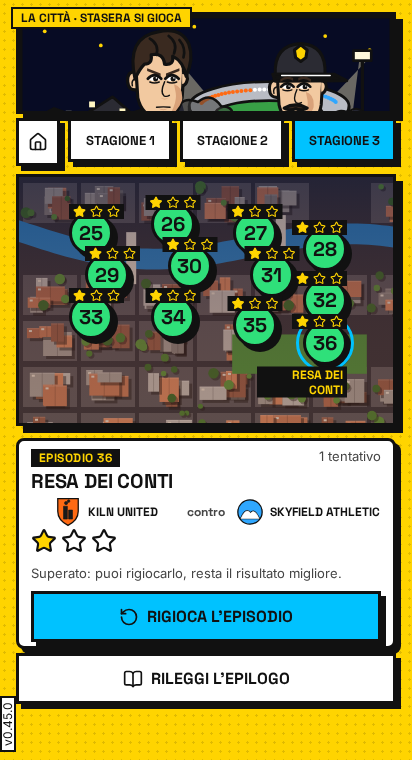
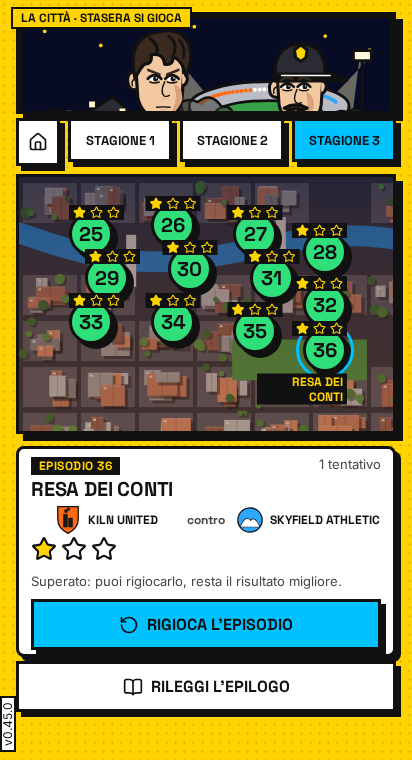
D-210: mappa della città di nuovo a 260 (a 252 dischi sovrapposti per 255 px² a 360×760, C17-12); spazio dal margine sotto la pagina con la striscia; 0 px a 360/375/412×760 e 360×640

Changed region(s): [[0.0291, 0.2421, 0.9903, 0.9684]]

diff --git a/src/resa/token.css b/src/resa/token.css
@@ -198,11 +198,9 @@
   --stemma-compatto: 32px; /* D-191: stemmi nella scheda compatta della città */
   --mappa-proporzione-passi: 4 / 3; /* sala e briefing a passi (S-10): mappa più bassa, niente scorrimento */
   --citta-proporzione: 4 / 5;
-  --citta-riserva: 508px;   /* D-210: con la striscia della home al posto della testata, a 760 la mappa scende a 252 */
-  --citta-riserva-prima: 500px;   /* PO-052: spazio per testata, pulsanti e scheda sotto la mappa della città (misurato: 486 px + margine) */
+  --citta-riserva: 500px;   /* PO-052: spazio per testata, pulsanti e scheda sotto la mappa della città (misurato: 486 px + margine) */
   --citta-larghezza-min: 208px;
-  --citta-altezza-min: 252px; /* D-210: 260 → 252 (sopra i 244 di C17-12) per la striscia della home */
-  --citta-altezza-min-prima: 260px; /* C17-12: altezza minima della mappa della città (quella di oggi a 760 px); D-187 l'aveva portata a 244: dischi sovrapposti per 587 px² a 360×760 (CI), tornata a 260 */
+  --citta-altezza-min: 260px; /* C17-12: altezza minima della mappa della città (quella di oggi a 760 px); D-187 l'aveva portata a 244: dischi sovrapposti per 587 px² a 360×760 (CI), tornata a 260 */
   --citta-altezza-max: 460px; /* C17-12: oltre, la mappa diventerebbe più alta che larga */
   --citta-nome-da: 400px; /* D-123: sotto questa larghezza della finestra il nome dell'episodio scelto non sta sulla mappa */
   --logo-icona: 72px;      /* PO-065 */

diff --git a/src/resa/stile-home.css b/src/resa/stile-home.css
@@ -27,4 +27,5 @@ main:not(.rosso-c187c01) .home-premessa ~ .avviso-finzione { margin-bottom: 0; }
 .guida-testata { margin: 0 0 var(--spazio-3); }
 .guida-testata > .vignetta { height: var(--home-vignetta-max); }
 .solo-lettore { position: absolute; width: var(--spazio-px); height: var(--spazio-px); overflow: hidden; clip-path: inset(50%); white-space: nowrap; }
-main[data-schermata="citta"]:not(:has([data-citta-striscia])) { --citta-riserva: var(--citta-riserva-prima); --citta-altezza-min: var(--citta-altezza-min-prima); } /* testata di prima: mappa di prima */
+/* D-210: con la striscia meno margine sotto la pagina (la mappa resta a 260: a 252 i dischi si coprivano per 255 px² a 360×760, C17-12) */
+#app:has(main[data-schermata="citta"] [data-citta-striscia]) { padding-bottom: var(--spazio-3); }

diff --git a/coordination/handoffs/sviluppatrice/d187/README.md b/coordination/handoffs/sviluppatrice/d187/README.md
@@ -299,25 +299,28 @@ Foto: `c45/d206/prima` (rosso C206I01) e `c45/d206/dopo`, e01 imp_ambulanza, e17
 - `Citta.tsx`: in testa la vignetta della home (96 px, `fissa`) con «La città · stasera si gioca» al posto della testata
   («S1 · Stagione 1 · mappa della città / Valmora»); il titolo resta per il lettore di schermo (`h1.solo-lettore`
   «Valmora · stagione N · mappa della città»). Rosso `C210C01`: la testata di prima. Sotto `--vignetta-finestra-min` (700 px,
-  la stessa soglia delle vignette di sala e verbale) resta la testata di prima, perché a 360×640 la striscia faceva scorrere
-  la città con pochi episodi di 21 px (scelta tecnica, dichiarata).
+  la stessa soglia delle vignette di sala e verbale) resta la testata di prima: a 360×640 la striscia faceva scorrere la città
+  con 0 episodi di 21 px (scelta tecnica, dichiarata).
 - `Guida.tsx`: al primo passo la vignetta della home con «La città e il gioco» al posto della vignetta del passo. Rosso `C210G01`.
-- Token: `--citta-riserva` 500 → 508 e `--citta-altezza-min` 260 → 252 (sopra i 244 di C17-12) con la striscia; con la testata
-  di prima tornano 500/260. Sotto la striscia `--spazio-1`; con la striscia «Rileggi l'epilogo» e la scheda sopra a `--spazio-1`.
+- La mappa della città resta a 260 px. Correzione dichiarata: avevo proposto 252 px; in CI (run 39486684643, «360 foto») a 252
+  i dischi degli episodi si coprivano per 255 px² a 360×760 (C17-12). Lo spazio viene invece da: sotto la striscia
+  `--spazio-1`; con la striscia «Rileggi l'epilogo» e la scheda sopra a `--spazio-1`; margine sotto la pagina `--spazio-3`
+  (era `--spazio-6`, come per la risposta in D-201).
+- Altra correzione dichiarata: avevo stimato 0 px a 360 con 96 px di striscia e mappa a 252; la misura dava 11 px (e 4 con 0
+  episodi, per la vignetta che si allungava: ora `fissa`).
 
-FATTO MISURATO, Chrome 156, scorrimento px. Correzione dichiarata: avevo stimato 0 a 360 con la mappa a 252, la misura dava 11
-(e 4 con 0 episodi, per la vignetta che si allungava): con `fissa` e gli spazi sopra, 0.
+FATTO MISURATO, Chrome 156, scorrimento px (`tools/sonda-altezze.mjs` e sonda della città con 0 episodi):
 
-| | 360×760 | 375×760 | 412×760 | 360×640 | 375×667 |
-|---|---|---|---|---|---|
-| città, 0 episodi | 0 | 0 | 0 | 0 (testata) | 0 (testata) |
-| città, 36 episodi | 0 | 0 | 0 | 99 (testata, come prima) | 53 (testata, come prima) |
-| guida, passo 1 | 0 | 0 | 0 | 0 | — |
+| | 360×760 | 375×760 | 412×760 | 360×640 |
+|---|---|---|---|---|
+| città, partita e01 | 0 | 0 | 0 | 0 (testata) |
+| città, 36 episodi | 0 | 0 | 0 | — |
+| guida, passo 1 | 0 | 0 | 0 | 0 |
 
 Lettore di schermo (albero di accessibilità di Chromium, città a 360×760): «heading Valmora · stagione 3 · mappa della città
 [level 1]», poi la figura, «Torna alla home», «Stagione 1», «Stagione 2», «Stagione 3 [pressed]»; dopo il tocco su Stagione 2
 il titolo dice «stagione 2» e «Stagione 2 [pressed]». I tasti dicono la stagione anche senza la testata.
-Guardiano (`tools/sonda-altezze.mjs`, a ogni 760): città36 con la striscia (≥ 96 px) e senza scorrere; primo passo della guida
-con la vignetta della home e senza scorrere. Bracci rossi C210C01 (manca la striscia) e C210G01 (manca la vignetta) visti.
+Guardiani: `tools/sonda-altezze.mjs` (a ogni 760: città36 con la striscia ≥ 96 px e senza scorrere; passo 1 della guida con la
+vignetta della home e senza scorrere), bracci rossi C210C01 e C210G01 visti; nel giro foto PO-092 esclude la striscia fissa
+e S-23 accetta al passo 1 la vignetta della home.
 Foto: `home/d210/prima-*` (rossi) e `home/d210/dopo-*`, città con 0 e 36 episodi e guida, a 360, 375 e 412 × 760.
-Non verificato: la sovrapposizione dei dischi della città a 252 px (guardiano C17-12 nel giro foto): la dice la CI.
